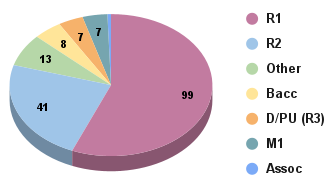
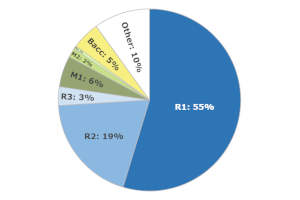
Added support to import historical users (downloaders) of the 1.1 tool. Added support for filtering by International users. Cleaned up some issues with various graphs (especially scatter). Changed the default charts card image to match our graphing output. Changed default population for charts to Al

diff --git a/nexus/utils/data.py b/nexus/utils/data.py
@@ -224,3 +224,84 @@ def load_capmodel_data(path, institution_path):
             answer.save()
 
     print("Loaded {} assessments.".format(assessments_loaded))
+
+INTL_PREFIX = 'Intl:'       # Denotes non-US/Canada country names in "State" field
+INTL_SKIP = len(INTL_PREFIX)
+CANADA_PREFIX = 'Canada:'  # Denotes Canada province names in "State" field
+CANADA_SKIP = len(CANADA_PREFIX)
+
+def load_legacy_profiles_data(path):
+    profiles_loaded = 0
+    print("Loading legacy profiles...")
+    user = get_user_model().objects.first()
+
+    with open(path, "r") as f:
+        reader = csv.DictReader(f)
+        for row in reader:
+            if DEBUGMODE:
+                print(row)
+            try:
+                if row["UnitID"].isnumeric():
+                    institution = Institution.objects.get(ipeds_unitid=row["UnitID"])
+                else:
+                    institution = Institution.objects.get(internet_domain=row["UnitID"])
+            except Institution.DoesNotExist:
+                if DEBUGMODE:
+                    print("Could not find institution for {}".format(row))
+                try:
+                    input_state=row["State"]
+                    if input_state.startswith(INTL_PREFIX):
+                        country = input_state[INTL_SKIP:]
+                        state = None
+                        region = Institution.RegionChoices.INTERNATIONAL
+                    elif input_state.startswith(CANADA_PREFIX):
+                        country = 'Canada'
+                        state = input_state[CANADA_SKIP:]
+                        region = Institution.RegionChoices.CANADA
+                    else:
+                        country='USA'
+                        state = input_state
+                        region = None       # Not in the input - will need to adjust by hand
+                    institution, _ = Institution.objects.get_or_create(
+                        name=row["Name"], 
+                        country=country,
+                        ipeds_region=region,
+                        state_or_province=state,
+                        # ipeds_unitid=row["UnitID"], We are only here if there was not UnitID match
+                        defaults={
+                            "internet_domain": row["UnitID"],
+                            "list_as_contributor": True,            # No assessment so no risk to default to True
+                            # Since we do not know of them, assume these are all False 
+                            # Most of them are non-US, so False is appropriate
+                            "ipeds_hbcu":Institution.HBCUChoices.NOT_AN_HBCU,
+                            "ipeds_pbi":Institution.PBIChoices.NOT_A_PBI,
+                            "ipeds_tcu":Institution.TCUChoices.NOT_A_TCU,
+                            "ipeds_hsi":Institution.HSIChoices.NOT_AN_HSI,
+                            "ipeds_aanapisi_annh":Institution.AANAPISI_ANNHChoices.NOT_AN_AANAPISI_ANNH,
+                            "ipeds_epscor":Institution.EPSCORChoices.NOT_EPSCOR,
+                            "ipeds_land_grant":Institution.LandGrantChoices.NOT_A_LAND_GRANT_INSTITUTION,
+                            },
+                       )
+                    institution
+                except IntegrityError as e:
+                    print(e, row)
+                    continue
+                if DEBUGMODE:
+                    print("Created new institution for {}".format(row))
+
+            if profile := institution.profiles.filter(year=row["Year"]):
+                # There is a chance someone created a 1.1 profile and then a 2.0 profile, both in 2023.
+                if int(row["Year"]) == 2023:
+                    print(f'Profile: {row["Name"]} ({row["Year"]}) already exists!  Skipping...')
+                else:
+                    if DEBUGMODE:
+                        print(f'Found duplicate pre-2023 Profile: {row["Name"]} ({row["Year"]}). (load_legacy_profiles_data run twice? Ignoring...)')
+            else: 
+                profile = institution.profiles.create(year=row["Year"], created_by=user)
+                # TODO - put under if DEBUG:
+                if DEBUGMODE:
+                    print(f'Created new Profile: {row["Name"]} ({row["Year"]})')
+                profiles_loaded += 1
+
+    print(f'Loaded {profiles_loaded} profiles.')
+

diff --git a/nexus/utils/demogcharts.py b/nexus/utils/demogcharts.py
@@ -16,7 +16,7 @@ PIE_SIZE_SCALE = 0.75
 DEFAULT_PIE_WIDTH=cmgraphs.DEFAULT_WIDTH*PIE_SIZE_SCALE
 DEFAULT_PIE_HEIGHT=cmgraphs.DEFAULT_HEIGHT*PIE_SIZE_SCALE
 
-def getAllProfiles(pop='contrib', years=None) :
+def getAllProfiles(pop='all', years=None) :         # default to full set of profiles and not just contributors
     # TODO: We need some kind of marker for test institutions
     # Find all the profiles since some of the filters and graphs are profile (vs. Institutional) info.
     # Since we only get the latest profile for each institution, we need to filter for years FIRST
@@ -39,7 +39,7 @@ def filterProfiles(dict):
     profiles=None
     # Check whether all users or just contributors
     if not (pop := dict.get('population')):
-        pop = 'contrib'
+        pop = 'all'                             #default to all users for charts                 
     # Have to handle years specially since it can impact which is the "latest" profile. 
     if years := dict.get('year'):
         if len(years) < len(dataviz.DataFilterForm.YEAR_CHOICES):   # Skip the filter if all are set (nothing to filter)
@@ -124,9 +124,9 @@ def filterProfiles(dict):
     return profiles
 
 def applyStandardPieFormatting(fig):
-    fig.update_layout(showlegend=False, margin_t=20,margin_b=20,margin_l=20,margin_r=20,autosize=True,)
-    fig.update_traces(sort=False, direction='clockwise', hovertemplate='%{label}: %{value:.0f} institutions', 
-                      textposition='inside', texttemplate='%{label}: %{percent:.0%}', textfont_size=18,
+    fig.update_layout(showlegend=False, margin_t=20,margin_b=20,margin_l=20,margin_r=20,autosize=True, hoverlabel = dict(font=dict(size=16)))
+    fig.update_traces(sort=False, direction='clockwise', hovertemplate='<b>%{label}: %{value:.0f} institutions</b>', 
+                      textposition='inside', texttemplate='<b>%{label}: %{percent:.0%}</b>', textfont_size=18,
                   marker=dict(line=dict(color=cmgraphs.colorPalette['errBars'], width=1.5)))
 
 def demographicsChartByCC(profiles, width=DEFAULT_PIE_WIDTH, height=DEFAULT_PIE_HEIGHT):
@@ -296,14 +296,16 @@ def scatterChart(answers, instCount, width=cmgraphs.DEFAULT_WIDTH, height=cmgrap
     fig.update_layout(
         xaxis=dict(range=[0, roundedInstCount], visible=True, showticklabels=True, dtick=xdtick, color='white'),
         xaxis_title=dict(text='<b>Institutions</b>', font=dict(size=14, color=cmgraphs.colorPalette['bgColor']), standoff=0),
-        yaxis=dict(ticksuffix="%", range=[0, 100], dtick=20),
+        yaxis=dict(ticksuffix="%", range=[0, 100], dtick=20, ),
         yaxis_title=dict(text='<b>Coverage</b>', font=dict(size=14, color=cmgraphs.colorPalette['bgColor'])),
         plot_bgcolor=cmgraphs.colorPalette['bgColor'], 
         margin_t=25,autosize=True,
-        legend_title_text=''
+        legend_title_text='',
+        legend=dict(font=dict(size=14, color=cmgraphs.colorPalette['bgColor']), itemsizing="constant", itemwidth=30),
+        hoverlabel = dict(font=dict(size=16)),        
         )
     msize = 5 + 100/instCount   # scale the marker size up for fewer results
-    fig.update_traces(marker={'size': msize})
+    fig.update_traces(marker={'size': msize}, textfont_size=18, hovertemplate='<b>Coverage: %{y:.0f}%</b>', )
 
     # Convert the figure to HTML including Plotly.js
     return po.to_html(fig, include_plotlyjs='cdn', full_html=True)

diff --git a/nexus/utils/cmgraphs.py b/nexus/utils/cmgraphs.py
@@ -70,7 +70,7 @@ simple_msi_mapping = {
     MSI_AA: 'AANAPISI or ANNH',
     MSI_TCU: 'Tribal College',
     MSI_OTHER: 'Other MSI',
-}
+    }
 simple_msi_palette = {'Not an MSI': colorPalette['NotMSI'], 'Hispanic-Serving': colorPalette['HSI'], 'HBCU/PBI': colorPalette['HBCU'], 
                     'AANAPISI or ANNH': colorPalette['AA'], 'Tribal College': colorPalette['TCU'], 'Other MSI': colorPalette['otherMSI'] }
 
@@ -103,13 +103,14 @@ mission_mapping = {
     RCDProfile.MissionChoices.TEACHINGESSENTIAL: RCDProfile.getShortMissionChoice(RCDProfile.MissionChoices.TEACHINGESSENTIAL.label),
     VALUE_UNKNOWN: VALUE_UNKNOWN_LABEL
     }
-mission_palette = {RCDProfile.getShortMissionChoice(RCDProfile.MissionChoices.RESEARCHESSENTIAL.label):'#e29578',
-                    RCDProfile.getShortMissionChoice(RCDProfile.MissionChoices.RESEARCHFAVORED.label):'#ffddd2',
-                    RCDProfile.getShortMissionChoice(RCDProfile.MissionChoices.BALANCED.label):'#edf6f9',
-                    RCDProfile.getShortMissionChoice(RCDProfile.MissionChoices.TEACHINGFAVORED.label):'#83c5be',
-                    RCDProfile.getShortMissionChoice(RCDProfile.MissionChoices.TEACHINGESSENTIAL.label):'#e29578',
-                    VALUE_UNKNOWN_LABEL:colorPalette[VALUE_UNKNOWN_LABEL]
-}
+mission_palette = {
+    RCDProfile.getShortMissionChoice(RCDProfile.MissionChoices.RESEARCHESSENTIAL.label):'#e29578',
+    RCDProfile.getShortMissionChoice(RCDProfile.MissionChoices.RESEARCHFAVORED.label):'#ffddd2',
+    RCDProfile.getShortMissionChoice(RCDProfile.MissionChoices.BALANCED.label):'#edf6f9',
+    RCDProfile.getShortMissionChoice(RCDProfile.MissionChoices.TEACHINGFAVORED.label):'#83c5be',
+    RCDProfile.getShortMissionChoice(RCDProfile.MissionChoices.TEACHINGESSENTIAL.label):'#e29578',
+    VALUE_UNKNOWN_LABEL:colorPalette[VALUE_UNKNOWN_LABEL]
+    }
 
 # Define a dictionary to map Structure values to names
 structure_mapping = {
@@ -119,12 +120,13 @@ structure_mapping = {
     RCDProfile.StructureChoices.NONE: 'No organized support',
     VALUE_UNKNOWN: VALUE_UNKNOWN_LABEL
     }
-structure_palette = {'Centralized':'#dda15e',
-                    'In a School/Dept.':'#fefae0',
-                    'Decentralized across units':'#283618',
-                    'No organized support': '#606c38',
-                    VALUE_UNKNOWN_LABEL:colorPalette[VALUE_UNKNOWN_LABEL]
-}
+structure_palette = {
+    'Centralized':'#dda15e',
+    'In a School/Dept.':'#fefae0',
+    'Decentralized across units':'#283618',
+    'No organized support': '#606c38',
+    VALUE_UNKNOWN_LABEL:colorPalette[VALUE_UNKNOWN_LABEL]
+    }
 
 
 

diff --git a/nexus/management/commands/load_nexus_data.py b/nexus/management/commands/load_nexus_data.py
@@ -4,9 +4,11 @@ from django.core.management.base import BaseCommand, CommandError
 from nexus.utils.data import (
     load_capmodel_data,
     initial_load_ipeds_data,
+    load_legacy_profiles_data,
 )
 
 IPEDS_DATA = "data/ipeds_2024-01-16.csv"
+HIST_PROFILES_DATA = "data/sensitive/capsmodel_2019-23_users.csv"
 #QUESTIONS_DATA = "data/capmodel_questions2.json"
 #QUESTIONS_DATA = "data/capmodel_questions3.json"
 #ASSESSMENTS_DATA = "data/capmodel_2020-21.csv"
@@ -26,9 +28,13 @@ class Command(BaseCommand):
                     initial_load_ipeds_data(IPEDS_DATA)
                 elif loadcmd == "data":
                     load_capmodel_data( ASSESSMENTS_DATA, CONTRIBUTORS_DATA )
+                elif loadcmd == "histprofiles":
+                    load_legacy_profiles_data( HIST_PROFILES_DATA )
                 else:
                     raise CommandError(
                         'Unknown load command specified to load_nexus_data: "%s"' % loadcmd)
         else:
             initial_load_ipeds_data(IPEDS_DATA)
             load_capmodel_data(ASSESSMENTS_DATA, CONTRIBUTORS_DATA)
+            load_legacy_profiles_data(HIST_PROFILES_DATA)
+

diff --git a/nexus/forms/dataviz.py b/nexus/forms/dataviz.py
@@ -92,6 +92,7 @@ class DataFilterForm(forms.Form):
         (IPEDSMixin.RegionChoices.FAR_WEST,IPEDSMixin.RegionChoices.FAR_WEST.label),
         (IPEDSMixin.RegionChoices.OTHER_U_S_JURISDICTIONS,"Other U.S."),        # "Other U.S. jurisdictions" is too long
         (IPEDSMixin.RegionChoices.CANADA,IPEDSMixin.RegionChoices.CANADA.label),
+        (IPEDSMixin.RegionChoices.INTERNATIONAL,IPEDSMixin.RegionChoices.INTERNATIONAL.label),
     )
 
     SIZE="Size"
@@ -197,7 +198,7 @@ class DataFilterForm(forms.Form):
         choices=REGION_CHOICES,
         initial = [c[0] for c in REGION_CHOICES],   # Default to all selected
         widget=forms.CheckboxSelectMultiple(attrs={"class":"toggle"}),
-        help_text="Filter by US Region or Canada",
+        help_text="Filter by US Region, Canada, or International",
     )
 
     size = AllNoneMultipleChoiceField(

diff --git a/nexus/models/ipeds_classification.py b/nexus/models/ipeds_classification.py
@@ -251,6 +251,7 @@ class IPEDSMixin(models.Model):
         FAR_WEST = 8, "Far West"
         OTHER_U_S_JURISDICTIONS = 9, "Other U.S. jurisdictions"
         CANADA = 100, "Canada"
+        INTERNATIONAL = 200, "International"
 
     ipeds_region = models.IntegerField(
         "Region",
